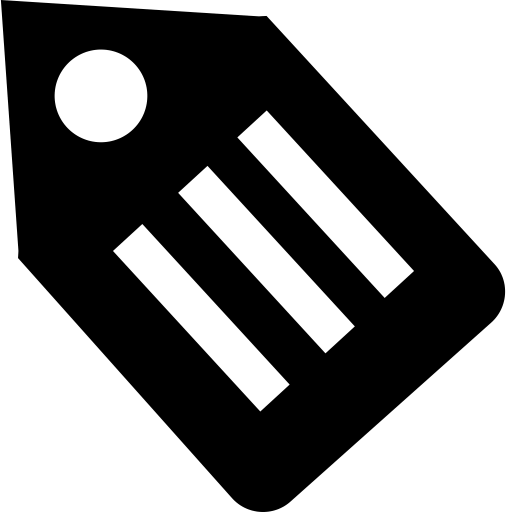
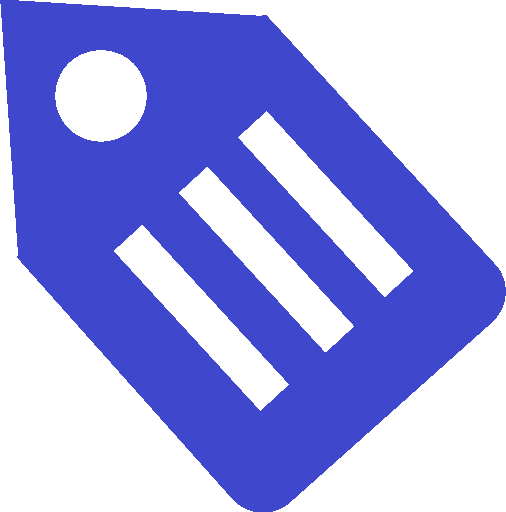
Ready for release

diff --git a/automatic-tags/js/wpat-tags.js b/automatic-tags/js/wpat-tags.js
@@ -3,22 +3,12 @@ jQuery(document).ready(function($) {
   var ajax_url = wpat_ajax_object_tags.ajax_url
   var img_dir = wpat_ajax_object_tags.img_dir
 
-  // display initial suggestions
-  // var tag_scores = {}
-  // console.log(wpat_ajax_object_tags.suggested_tags)
-  // wpat_ajax_object_tags.suggested_tags.forEach((tag_score_tup, i) => {
-  //   tag_scores[tag_score_tup[0]] = tag_score_tup[1]
-  // });
-  // displaySuggestedTags(Object.keys(tag_scores))
-
   // Call suggested tags API
   $('a.wpat-suggest-action-link').click(function(event) {
     event.preventDefault()
 
     var loading_img = '<img id="wpat_ajax_loading" src="' + img_dir + 'indicator.gif">'
-    $('#wpat_suggested_tags .container_clicktags').html(loading_img)
-
-    // $('#wpat_ajax_loading').show()
+    $('#wpat_suggested_tags .wpat_tag_container').html(loading_img)
 
     var payload = {
       'post_content': getContent(),
@@ -36,33 +26,30 @@ jQuery(document).ready(function($) {
     } ).then(
       ( data ) => {
         // display suggestions
-        console.log(data)
         // clear container
-        $('#wpat_suggested_tags .container_clicktags').empty()
+        $('#wpat_suggested_tags .wpat_tag_container').empty()
         if (data['status_code'] == 200) {
           var tag_scores = {}
           data['response'].forEach((tag_score_tup, i) => {
             tag_scores[tag_score_tup[0]] = tag_score_tup[1]
           });
-          console.log(tag_scores)
           displaySuggestedTags(Object.keys(tag_scores))
         } else {
           // clear container
-          $('#wpat_suggested_tags .container_clicktags').empty()
+          $('#wpat_suggested_tags .wpat_tag_container').empty()
           // add error message
-          $('#wpat_suggested_tags .container_clicktags').html(data['error_msg'])
+          $('#wpat_suggested_tags .wpat_tag_container').html(data['error_msg'])
           // add error class
-          $('#wpat_suggested_tags .container_clicktags').addClass('wpat_api_error')
+          $('#wpat_suggested_tags .wpat_tag_container').addClass('wpat_api_error')
         }
       },
       ( err ) => {
-        console.log(err)
         // clear container
-        $('#wpat_suggested_tags .container_clicktags').empty()
+        $('#wpat_suggested_tags .wpat_tag_container').empty()
         // add error message
-        $('#wpat_suggested_tags .container_clicktags').html(err['error_msg'])
+        $('#wpat_suggested_tags .wpat_tag_container').html(err['error_msg'])
         // add error class
-        $('#wpat_suggested_tags .container_clicktags').addClass('wpat_api_error')
+        $('#wpat_suggested_tags .wpat_tag_container').addClass('wpat_api_error')
       }
     );
     return false
@@ -70,24 +57,23 @@ jQuery(document).ready(function($) {
 
   function displaySuggestedTags(suggested_tags) {
     // remove error class if present
-    $('#wpat_suggested_tags .container_clicktags').removeClass('wpat_api_error')
+    $('#wpat_suggested_tags .wpat_tag_container').removeClass('wpat_api_error')
     // button to add all tags
-    $('#wpat_suggested_tags .container_clicktags').append(
+    $('#wpat_suggested_tags .wpat_tag_container').append(
       '<span class="wpat_add_all_tags">ADD ALL TAGS</span>'
     )
-    $('#wpat_suggested_tags .container_clicktags').append('<div class="clear"></div>')
+    $('#wpat_suggested_tags .wpat_tag_container').append('<div class="clear"></div>')
     // add each suggested tag as a span within container
     for(var key in suggested_tags){
-      $('#wpat_suggested_tags .container_clicktags').append(
+      $('#wpat_suggested_tags .wpat_tag_container').append(
         '<span class="wpat_add_single_tag">' + suggested_tags[key] + '</span>'
       )
     }
-    $('#wpat_suggested_tags .container_clicktags').append('<div class="clear"></div>')
+    $('#wpat_suggested_tags .wpat_tag_container').append('<div class="clear"></div>')
 
     // enable suggested tags to be added to post
     $('.wpat_add_single_tag').click(function(event) {
       event.preventDefault()
-      console.log('clicked tag with name ' + this.innerHTML)
       addTags([this.innerHTML])
       $(this).addClass('used_term')
     })
@@ -306,8 +292,6 @@ jQuery(document).ready(function($) {
       console.log(data)
       $.post(ajax_url, data)
       .done(function(result){
-        console.log('add tag ajax success')
-        console.log(result)
         // loop through all tags and append to list of tags
         result.data.forEach((tag_data, i) => {
           if (tag_data.term_id > 0) {
@@ -341,69 +325,6 @@ jQuery(document).ready(function($) {
   }
   function onlyUnique(value, index, self) {
     return self.indexOf(value) === index;
-  }
-
-  // Begin click tags section
-
-  // if (wpat_ajax_object_tags.display_vars.state === 'hide') {
-  //   // Display initial link
-  //   $('#wpat-click-tags .inside').html(
-  //     '' + wpat_ajax_object_tags.display_vars.search_box +
-  //     ' <a href="#wpat_click_tags" id="open_clicktags">' +
-  //     wpat_ajax_object_tags.display_vars.show_txt + '</a><span id="close_clicktags">' +
-  //     wpat_ajax_object_tags.display_vars.hide_txt +
-  //     '</span><div class="container_clicktags"></div>')
-  // } else {
-  //   $('#wpat-click-tags .inside').html(
-  //     '' + wpat_ajax_object_tags.display_vars.search_box +
-  //     ' <a href="#wpat_click_tags" id="open_clicktags">' +
-  //     wpat_ajax_object_tags.display_vars.show_txt + '</a><span id="close_clicktags">' +
-  //     wpat_ajax_object_tags.display_vars.hide_txt +
-  //     '</span><div class="container_clicktags"></div>')
-  // }
-
-  // Take current post ID
-  var current_post_id = getPostID()
-
-  // if (wpat_ajax_object_tags.display_vars.state === 'show') {
-    load_click_tags()
-  // }
-
-  // Show click tags
-  // $('#open_clicktags').click(function (event) {
-  //   event.preventDefault()
-  //   load_click_tags()
-  //   return false
-  // })
-
-  function load_click_tags(search = '') {
-    if (search) {
-      $(".click-tag-search-box").css(
-        "background", "url(" +
-        wpat_ajax_object_tags.display_vars.search_icon + ") no-repeat 99%"
-      );
-      // filter existing tags in suggested tags container
-      $('#wpat_suggested_tags .container_clicktags span')
-        .filter(function() {
-          return this.val().includes(search);
-        })
-    }
-  }
-
-  //inititiate click tags search when user starts typing
-  //setup before functions
-  var typingTimer;                //timer identifier
-  var doneTypingInterval = 500;  //time in ms
-
-  //on keyup, start the countdown
-  $(document).on('keyup', '.click-tag-search-box', function () {
-      clearTimeout(typingTimer);
-          typingTimer = setTimeout(doneTyping, doneTypingInterval);
-  });
-
-  //user is "finished typing," do something
-  function doneTyping() {
-    load_click_tags($('.click-tag-search-box').val());
   }
 
 })

diff --git a/automatic-tags/style.css b/automatic-tags/style.css
@@ -41,25 +41,13 @@ p.wpat_suggested_category_header {
 }
 
 /* Suggested Tags */
-
-/* a#open_clicktags {
-    color:red;
-}
-a#open_clicktags,
-a#close_clicktags{font-weight:700;border:0;text-decoration:none;display:block;margin-bottom:5px;}
-a#close_clicktags{display:none;} */
-
-/* Ajax Click Tags   */
-/* #wpat-clicks-tags .container_clicktags{border:3px dashed #D1E6EF;display:none;max-height:300px;overflow:auto;margin:3px 0 0;padding:6px;} */
-#wpat_suggested_tags .container_clicktags .used_term{-ms-filter: "progid:DXImageTransform.Microsoft.Alpha(Opacity=50)";filter: alpha(opacity=50); opacity: 0.5;}
-
-/* Click Tags   */
-#wpat_suggested_tags .container_clicktags{display:block;}
-#wpat_suggested_tags .container_clicktags span {
+#wpat_suggested_tags .wpat_tag_container{display:block;}
+#wpat_suggested_tags .wpat_tag_container .used_term{-ms-filter: "progid:DXImageTransform.Microsoft.Alpha(Opacity=50)";filter: alpha(opacity=50); opacity: 0.5;}
+#wpat_suggested_tags .wpat_tag_container span {
   display:block;
   float:left;
   background-color:#f0f0ee;
-  background-image: url(assets/images/tag_blue_custom.png);
+  background-image: url(assets/images/tag.png);
   background-size: 12px;
   background-repeat: no-repeat;
   background-position: top 50% left 5px;
@@ -71,23 +59,23 @@ a#close_clicktags{display:none;} */
   margin:3px;
   padding:3px 4px 3px 22px;
 }
-#wpat_suggested_tags .container_clicktags span:hover {
+#wpat_suggested_tags .wpat_tag_container span:hover {
   color:#000;
   background-color:#b6bdd2;
-  background-image: url(assets/images/tag_blue_custom.png);
+  background-image: url(assets/images/tag.png);
   background-size: 12px;
   background-repeat: no-repeat;
   background-position: top 50% left 5px;
   border-color:#0a246a;
 }
-#wpat_suggested_tags .container_clicktags span.wpat_add_all_tags {
+#wpat_suggested_tags .wpat_tag_container span.wpat_add_all_tags {
   background-color:#3f48cc;
   color:white;
   font-weight: bold;
   padding: 3px 6px;
   background-image: none;
 }
-#wpat_suggested_tags .container_clicktags span.wpat_add_all_tags:hover {
+#wpat_suggested_tags .wpat_tag_container span.wpat_add_all_tags:hover {
   background-color:#c2c4dc;
   color:#333;
 }
@@ -116,6 +104,6 @@ a.wpat-suggest-action-link:hover {
 .wpat-suggest-action-header {
   display:block;
   float:left;
-  margin:3px;
-  padding:3px 4px 3px 4px;
+  margin:3px 3px 3px 0px;
+  padding:3px 4px 3px 0px;
 }

diff --git a/automatic-tags/tag-api.php b/automatic-tags/tag-api.php
@@ -3,20 +3,14 @@ function wpat_call_tags_api(
   $content, $title, $actual_categories, $actual_tags, $post_id,
   $tag_suggestion_type
 ) {
-  // $endpoint_url = 'https://4wsks8oul5.execute-api.us-east-2.amazonaws.com/preprod/tag-model';
   switch ($tag_suggestion_type) {
     case "keyword":
-      // $endpoint_url = 'https://api.wpautotag.com/prod/tags-keyphrases';
-      // $endpoint_url = 'https://6j226s2rz7.execute-api.us-east-2.amazonaws.com/prod/tags/keyphrases';
       $endpoint_url = 'https://api.wpautotag.com/tags/keyphrases/';
       break;
     case "topic":
-      // $endpoint_url = 'https://api.wpautotag.com/prod/tags-topics';
-      // $endpoint_url = 'https://hapes71nf2.execute-api.us-east-2.amazonaws.com/prod/tags/topics';
       $endpoint_url = 'https://api.wpautotag.com/tags/topics/';
       break;
     default:
-      // $endpoint_url = 'https://6j226s2rz7.execute-api.us-east-2.amazonaws.com/prod/tags/keyphrases';
       $endpoint_url = 'https://api.wpautotag.com/tags/keyphrases/';
   }
 
@@ -59,9 +53,6 @@ function wpat_call_tags_api(
   $response = wp_remote_post( $endpoint_url, $options );
   $raw_body = wp_remote_retrieve_body( $response );
   $body_decode = json_decode($raw_body);
-  // error_log(print_r($response, true));
-  // error_log(print_r($raw_body, true));
-  // error_log(print_r($body_decode, true));
   $status_code = wp_remote_retrieve_response_code( $response );
 
   // handle different status codes
@@ -69,17 +60,22 @@ function wpat_call_tags_api(
   if ($status_code == 200) {
     $result_raw = $body_decode[0];
     $capital_strategy = get_option('wpat_capital_strategy_tag');
-    // exclude actual tags
+    // exclude actual tags, apply capital strategy, and filter low confidence
+    // suggestions
     $result = array();
     foreach($result_raw as $tup) {
-        if(!in_array($tup[0], $actual_tags)) {
-          $tag_name = wpat_strcase($tup[0], $capital_strategy);
-          $result[] = array($tag_name, $tup[1]);
+        if(!in_array(
+          strtolower($tup[0]), array_map("strtolower", $actual_tags)
+        )){
+          // filter low confidence
+          $skip = ($tag_suggestion_type == "topic") & ($tup[1] < 1.4);
+          if (!$skip) {
+            $tag_name = wpat_strcase($tup[0], $capital_strategy);
+            $result[] = array($tag_name, $tup[1]);
+          }
         }
     }
   } else {
-    // mock
-    // $result = array('tag abc', 'xyz tag', 'and 123 tag');
     $result = 'Error';
   }
 
@@ -88,7 +84,6 @@ function wpat_call_tags_api(
   } elseif ($status_code == 403) {
     if ($wpat_api_key) {
       $error_msg = 'Invalid API key | ' . '<br>' . $body_decode->message;
-       // . '<br>' . $response . ' <br> ' . $raw_body . ' <br> ' . $body_decode;
     } else {
       $error_msg = $null_api_key_msg;
     }
@@ -127,7 +122,9 @@ function wpat_get_local_match_tags(
     // compute score
     $score = ($content_count + ($title_count * $title_weight)) * (log($tag->count + 1) + 1);
     // if non-zero score, add tuple of name and score to array to be returned
-    if (($score > 0) and !(in_array($tag->name, $actual_tags))) {
+    if (($score > 0) and !(in_array(
+        strtolower($tag->name), array_map("strtolower", $actual_tags)
+    ))) {
       $matched_names[] = $tag->name;
       $matched_scores[] = $score;
     }
@@ -139,7 +136,6 @@ function wpat_get_local_match_tags(
   );
   // zip into array of tuples
   $matches = array_map(null, $matched_names, $matched_scores);
-  // error_log(print_r($matches));
 
   return $matches;
 }

diff --git a/automatic-tags/callbacks.php b/automatic-tags/callbacks.php
@@ -5,8 +5,11 @@ function wpat_suggested_category_api(){
     'wpautotag/v1',
     '/category/suggest/',
     array(
-      'methods' => WP_REST_Server::EDITABLE,//'POST', //
+      'methods' => WP_REST_Server::EDITABLE,
       'callback' => 'wpat_get_suggested_category_rest',
+      'permission_callback' => function() {
+          return current_user_can( 'edit_posts' );
+      },
       'args' => array(
         'post_content' => array(
           'default' => '',
@@ -92,8 +95,11 @@ function wpat_suggested_tags_api(){
     'wpautotag/v1',
     '/tag/suggest/',
     array(
-      'methods' => WP_REST_Server::EDITABLE,//'POST', //
+      'methods' => WP_REST_Server::EDITABLE,
       'callback' => 'wpat_get_suggested_tags_rest',
+      'permission_callback' => function() {
+          return current_user_can( 'edit_posts' );
+      },
       'args' => array(
         'post_content' => array(
           'default' => '',
@@ -208,7 +214,6 @@ function wpat_maybe_create_tag( $tag_name = '' ) {
   return $term_id;
 }
 function wpat_maybe_create_tags_callback() {
-  // error_log(print_r($_REQUEST['tag_names']));
   $response = array();
   foreach ($_REQUEST['tag_names'] as $tag_name) {
     $term_id = wpat_maybe_create_tag($tag_name);
@@ -217,7 +222,6 @@ function wpat_maybe_create_tags_callback() {
       'tag_name' => $tag_name
     );
   }
-  // error_log(print_r($response));
   wp_send_json_success( $response );
 }
 

diff --git a/automatic-tags/wpautotag.php b/automatic-tags/wpautotag.php
@@ -148,17 +148,15 @@ function wpat_add_tag_suggestion_metabox() {
 }
 function wpat_tag_suggestion_metabox() {
   ?>
-  <span class="container_clicktags">
-    <h2>Click a tag type to receive suggestions.</h2>
+  <span class="wpat_tag_container">
+  Click a tag type to receive suggestions.
   <div class="clear"></div>
   </span>
   <?php
 }
 function wpat_get_tag_suggestion_header() {
-  // $html = '<img style="display:none;" id="wpat_ajax_loading" src="' . WPAUTOTAG__PLUGIN_URL . '/assets/images/indicator.gif" alt="' . __( 'Ajax loading', 'wpat' ) . '" />';
   $html = '<div class="wpat-suggest-action-header">Suggested Tags</div>';
   $html .= '<a data-ajaxaction="match" class="wpat-suggest-action-link" href="#wpat_suggested_tags">' . __( 'Matches', 'wpat' ) . '</a>';
-  // $html .= '<a data-ajaxaction="similar" class="wpat-suggest-action-link" href="#wpat_suggested_tags">' . __( 'Similar', 'wpat' ) . '</a>';
   $html .= '<a data-ajaxaction="keyword" class="wpat-suggest-action-link" href="#wpat_suggested_tags">' . __( 'Keywords', 'wpat' ) . '</a>';
   $html .= '<a data-ajaxaction="topic" class="wpat-suggest-action-link" href="#wpat_suggested_tags">' . __( 'Topics', 'wpat' ) . '</a>';
   $html .= '<div class="clear"></div>';

diff --git a/automatic-tags/category-api.php b/automatic-tags/category-api.php
@@ -2,7 +2,7 @@
 function wpat_call_category_api(
   $content, $title, $actual_categories, $actual_tags, $post_id
 ) {
-  $endpoint_url = 'https://4wsks8oul5.execute-api.us-east-2.amazonaws.com/preprod/category-model';
+  $endpoint_url = 'https://api.wpautotag.com/categories/popular/';
 
   // get domain-level inputs to model
   $category_prior = wpat_get_category_prior();
